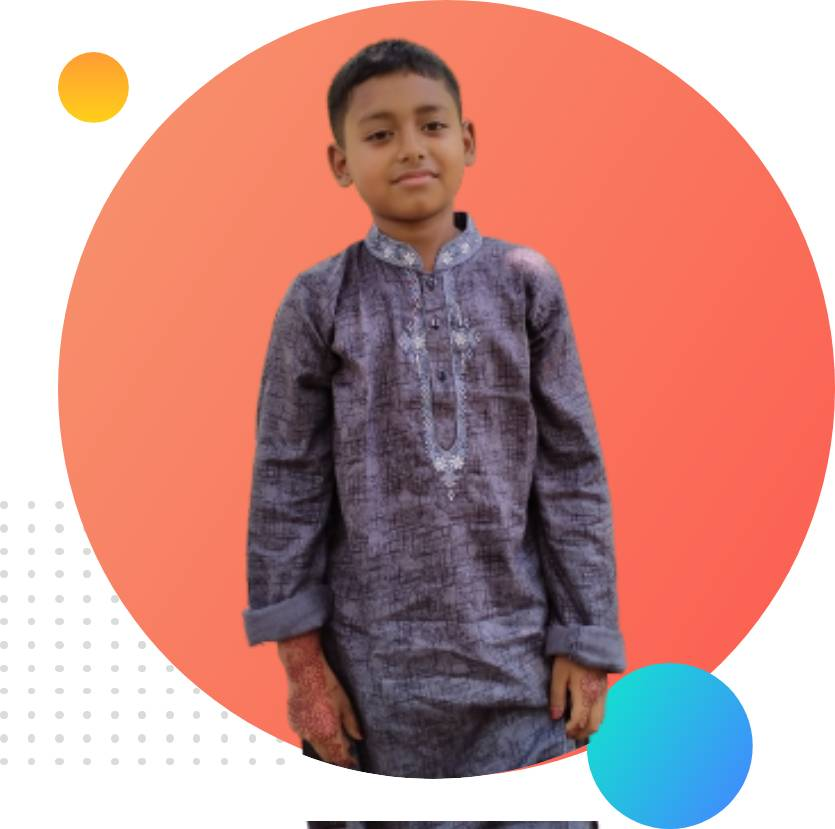
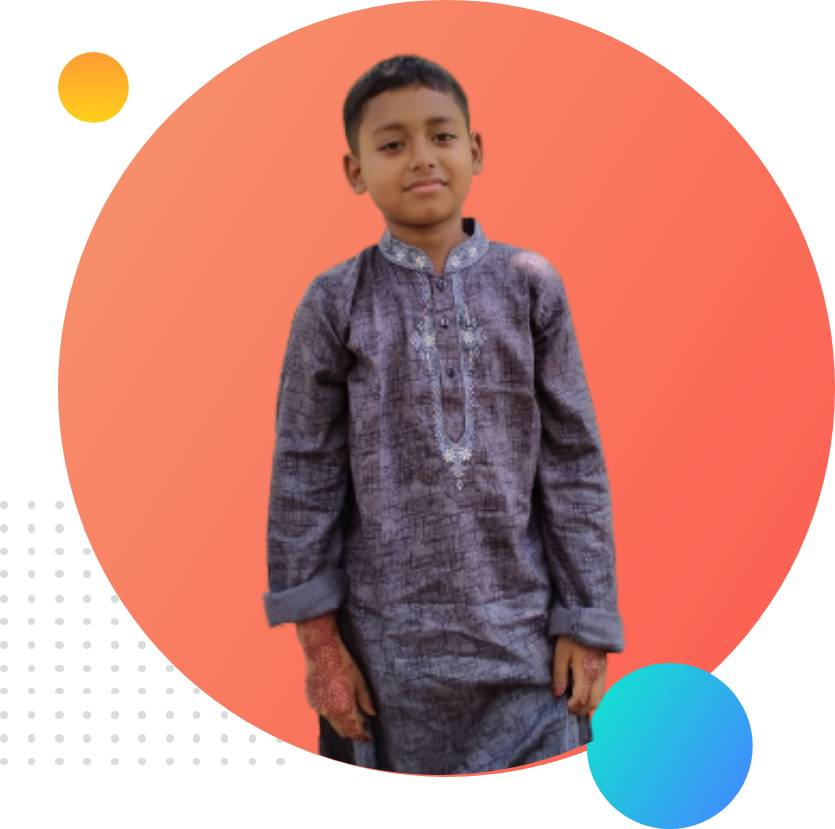
new section added

Changed region(s): [[0.2802, 0.0302, 0.7784, 1.0]]

diff --git a/css/style.css b/css/style.css
@@ -75,20 +75,20 @@ body {
 .section-two-img img {
   width: 90%;
 }
-.section-two-contant {
+.section-two-content {
   padding: 10% 5%;
   width: 50%;
   margin-top: 5%;
 }
-.section-two-contant h2 {
+.section-two-content h2 {
   font-size: 65px;
   font-family: "Lobster", cursive;
 }
-.section-two-contant h3 {
+.section-two-content h3 {
   font-size: 25px;
   padding: 2% 0;
 }
-.section-two-contant p {
+.section-two-content p {
   margin-bottom: 5%;
 }
 /* section two end */
@@ -97,11 +97,13 @@ body {
 #section-three {
   background-image: url(../images/exp-bg.png);
   background-repeat: no-repeat;
+  background-position: left;
   padding-bottom: 150px;
 }
 #section-three h1 {
   text-align: center;
   font-size: 70px;
+  margin-bottom: 3%;
   font-family: "Lobster", cursive;
 }
 .section-three-container {
@@ -109,7 +111,7 @@ body {
 }
 .section-three-content-one {
   width: 50%;
-  padding: 3% 2%;
+  padding: 5% 2%;
   border-left: 5px solid;
   margin-left: 7%;
   box-shadow: 5px 7px 40px grey;
@@ -117,14 +119,18 @@ body {
   border-image-slice: 1;
 }
 .section-three-content-one h2 {
+  font-size: 28px;
 }
 .section-three-content-one h3 {
+  color: orange;
+  font-size: 20px;
+  padding: 3% 0;
 }
 .section-three-content-one p {
 }
 .section-three-content-two {
   width: 50%;
-  padding: 3% 2%;
+  padding: 5% 2%;
   margin: 0 7%;
   border-left: 5px solid;
   box-shadow: 5px 7px 40px grey;
@@ -132,8 +138,14 @@ body {
   border-image-slice: 1;
 }
 .section-three-content-two h2 {
+  font-size: 28px;
 }
 .section-three-content-two h3 {
+  color: orange;
+  font-size: 20px;
+  padding: 3% 0;
 }
-.section-three-content-two p {
+footer p {
+  text-align: center;
+  padding: 2% 0;
 }

diff --git a/index.html b/index.html
@@ -41,9 +41,9 @@
     <div id="section-two">
       <div class="section-two-container">
         <div class="section-two-img">
-          <img src="./images/rasi-2.jpg" alt="New developer two" />
+          <img src="./images/rafi-2.jpg" alt="New developer two" />
         </div>
-        <div class="section-two-contant">
+        <div class="section-two-content">
           <h2>Dream Big</h2>
           <h3>Become a web developer</h3>
           <p>
